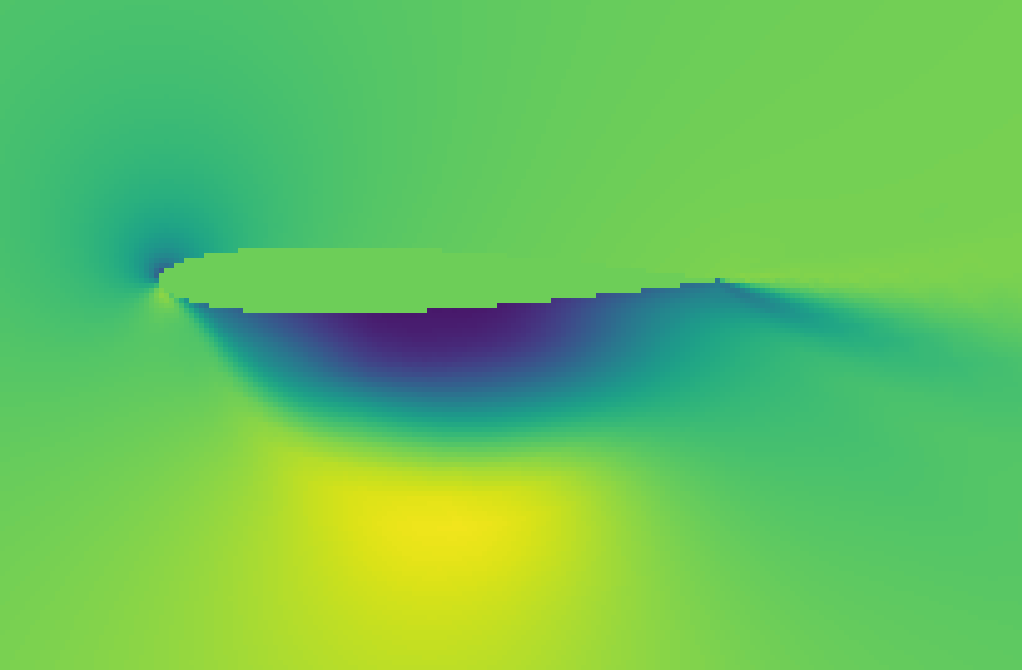
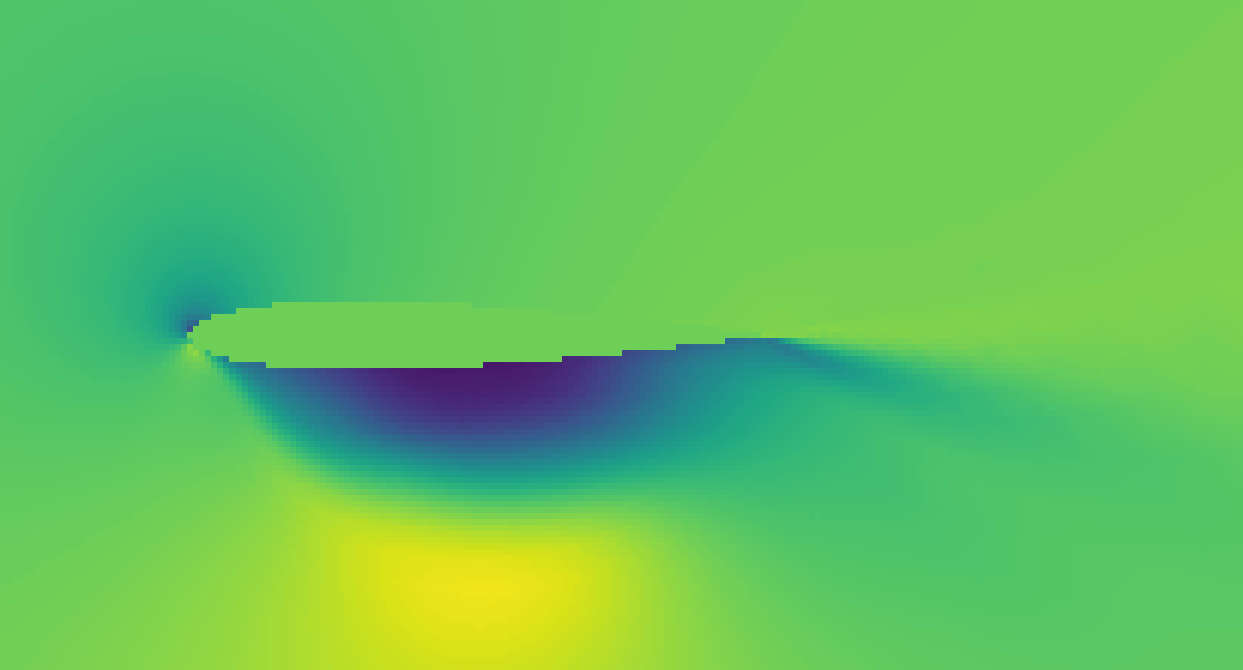
Update airfoil plots

Changed region(s): [[0.091, 0.3582, 1.0, 1.0], [0.3033, 0.8358, 0.4247, 0.9851]]

diff --git a/eagle/eval_mgn.py b/eagle/eval_mgn.py
@@ -1,7 +1,8 @@
 import os
 import torch
 import torch.nn as nn
-from Dataloader.MGN import EagleMGNDataset
+#from Dataloader.MGN import EagleMGNDataset
+from Dataloader.airfoil import AirfoilDataset
 import numpy as np
 from torch.utils.data import DataLoader
 from Models.MeshGraphNet import MeshGraphNet
@@ -12,9 +13,9 @@ from eagle_utils import get_nrmse, plot_final
 
 torch.set_float32_matmul_precision('medium')
 parser = argparse.ArgumentParser()
-parser.add_argument('--dataset_path', default='/home/bubbles/Documents/LLM_Fluid/ds/MGN/cylinder_dataset/', type=str, help="Dataset location")
-parser.add_argument('--n_processor', default=15, type=int, help="Number of chained GNN layers")
-parser.add_argument('--name', default='cylinder', type=str, help="Name for saving/loading weights")
+parser.add_argument('--dataset_path', default='./ds/MGN/airfoil_dataset/', type=str, help="Dataset location")
+parser.add_argument('--n_processor', default=10, type=int, help="Number of chained GNN layers")
+parser.add_argument('--name', default='airfoil', type=str, help="Name for saving/loading weights")
 args = parser.parse_args()
 
 device = torch.device("cuda" if torch.cuda.is_available() else "cpu")
@@ -26,7 +27,7 @@ BATCHSIZE = 1
 def evaluate():
     print(args)
     length = 102
-    dataset = EagleMGNDataset(args.dataset_path, mode="test", window_length=length, with_cluster=False, normalize=False, with_cells=True)
+    dataset = AirfoilDataset(args.dataset_path, mode="test", window_length=length, with_cluster=False, normalize=True, with_cells=True)
 
     dataloader = DataLoader(dataset, batch_size=1, shuffle=False, pin_memory=True)
     model = MeshGraphNet(apply_noise=False, state_size=4, N=args.n_processor).to(device)
@@ -39,6 +40,9 @@ def evaluate():
     os.makedirs(f"./eagle/Results/meshgraphnet", exist_ok=True)
     rmses = []
     for i, x in enumerate(tqdm(dataloader, desc="Evaluation")):
+        if i != 15:
+            continue
+
         mesh_pos = x["mesh_pos"].to(device)
         edges = x['edges'].to(device).long()
         velocity = x["velocity"].to(device)
@@ -52,10 +56,11 @@ def evaluate():
         rmse = get_nrmse(state, state_hat, mesh_pos, x['cells'])
         rmses.append(rmse.numpy())
 
-        # print(f'{mesh_pos.shape = }, {faces.shape = }, {state_hat.shape = }, {state.shape = }')
-        # plot_final(mesh_pos[0, 0], faces[0, 0], state_hat[0], state_true=state[0])
-        # print(rmse)
-        # exit(7)
+        if i == 15:
+            print(f'{mesh_pos.shape = }, {faces.shape = }, {state_hat.shape = }, {state.shape = }')
+            plot_final(mesh_pos[0, 0], faces[0, 0], state_hat[0], state_true=state[0])
+            print(rmse)
+            exit(7)
 
     rmses = np.concatenate(rmses)
     print(f'{rmses.mean(axis=0).tolist()}')

diff --git a/eagle/Dataloader/airfoil.py b/eagle/Dataloader/airfoil.py
@@ -124,42 +124,6 @@ class AirfoilDataset(Dataset):
 
         return output
 
-    # def normalize(self, velocity=None, pressure=None):
-    #     if pressure is not None:
-    #         pressure_shape = pressure.shape
-    #         mean = torch.tensor([0.8845, -0.0002054]).to(pressure.device)
-    #         std = torch.tensor([0.5875, 0.1286]).to(pressure.device)
-    #         pressure = pressure.reshape(-1, 2)
-    #         pressure = (pressure - mean) / std
-    #         pressure = pressure.reshape(pressure_shape)
-    #     if velocity is not None:
-    #         velocity_shape = velocity.shape
-    #         mean = torch.tensor([0.04064, 0.04064]).to(velocity.device).view(-1, 2)
-    #         std = torch.tensor([0.2924, 0.2924]).to(velocity.device).view(-1, 2)
-    #         velocity = velocity.reshape(-1, 2)
-    #         velocity = (velocity - mean) / std
-    #         velocity = velocity.reshape(velocity_shape)
-    #
-    #     return velocity, pressure
-    #
-    # def denormalize(self, velocity=None, pressure=None):
-    #     if pressure is not None:
-    #         pressure_shape = pressure.shape
-    #         mean = torch.tensor([0.8845, -0.0002054]).to(pressure.device)
-    #         std = torch.tensor([0.5875, 0.1286]).to(pressure.device)
-    #         pressure = pressure.reshape(-1, 2)
-    #         pressure = (pressure * std) + mean
-    #         pressure = pressure.reshape(pressure_shape)
-    #     if velocity is not None:
-    #         velocity_shape = velocity.shape
-    #         mean = torch.tensor([0.04064, 0.04064]).to(velocity.device).view(-1, 2)
-    #         std = torch.tensor([0.2924, 0.2924]).to(velocity.device).view(-1, 2)
-    #         velocity = velocity.reshape(-1, 2)
-    #         velocity = velocity * std + mean
-    #         velocity = velocity.reshape(velocity_shape)
-    #
-    #     return velocity, pressure
-
 
 def get_data(path, window_length, mode):
     # Time sampling is random during training, but set to a fix value during test and valid, to ensure repeatability.
@@ -180,8 +144,8 @@ def get_data(path, window_length, mode):
     node_type = np.repeat(node_type[np.newaxis], window_length, axis=0)
 
     # Remove outer region
-    x_mask = (pos[:, :, 0] > -.42) & (pos[:, :, 0] < 1.71)
-    y_mask = (pos[:, :, 1] > -.64) & (pos[:, :, 1] < 0.85)
+    x_mask = (pos[:, :, 0] > -0.5) & (pos[:, :, 0] < 2)
+    y_mask = (pos[:, :, 1] > -.75) & (pos[:, :, 1] < 0.75)
     mask = x_mask & y_mask
     mask = mask[0]
 

diff --git a/eagle/eagle_utils.py b/eagle/eagle_utils.py
@@ -137,11 +137,11 @@ def plot_final(mesh_pos, faces, state_hat, state_true):
     vmin, vmax = state_true[:100, :, 0].min(), state_true[:100, :, 0].max()
     for j in [0, 20, 40, 60, 80, 100]:
         interp, _ = to_grid(state_hat[j, :, 0], grid_x, grid_y, triang, tri_index)
-        # interp = interp[16:-16, 16:-16]
+        interp = interp[16:-16, 16:-16]
         print(f'{interp.shape = }')
-        fig = plt.figure(figsize=(15, 4), dpi=100)
+        fig = plt.figure(figsize=(13, 7), dpi=100)
         plt.imshow(interp.T, vmin=vmin, vmax=vmax)
         plt.axis('off')
         plt.tight_layout()
-        plt.savefig(f'./plots/cylinder_MGN_{j}.png', bbox_inches='tight', pad_inches=0)
+        plt.savefig(f'./plots/airfoil_MGN_{j}.png', bbox_inches='tight', pad_inches=0)
         plt.show()

diff --git a/eagle/Models/MeshGraphNet.py b/eagle/Models/MeshGraphNet.py
@@ -18,7 +18,7 @@ class MeshGraphNet(nn.Module):
         self.noise_std = noise_std
         self.encoder = Encoder(state_size)
         self.processor = Processor(N)
-        # self.processor = torch.compile(self.processor, dynamic=True)
+        self.processor = torch.compile(self.processor, dynamic=True)
 
         self.decoder = MLP(input_size=128, output_size=state_size, layer_norm=False)
         self.normalizer_output = Normalizer(state_size)
